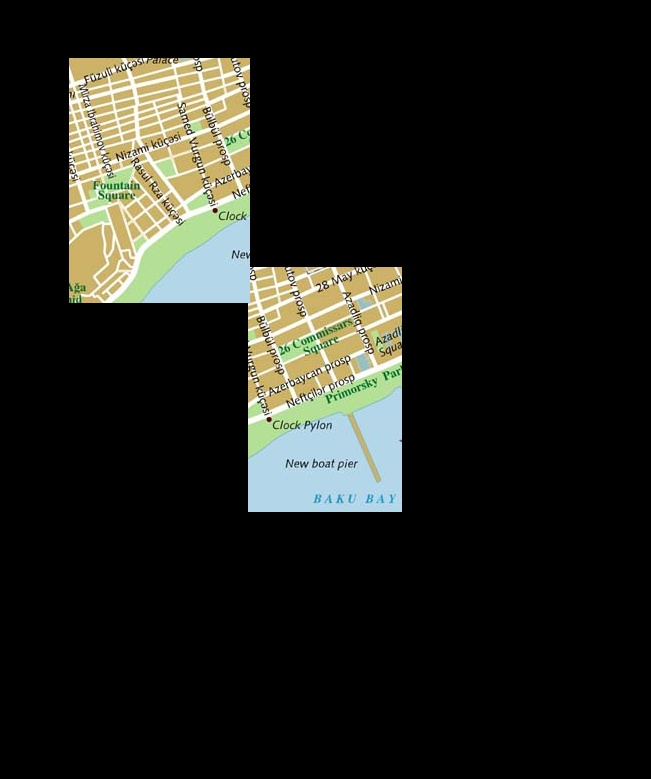
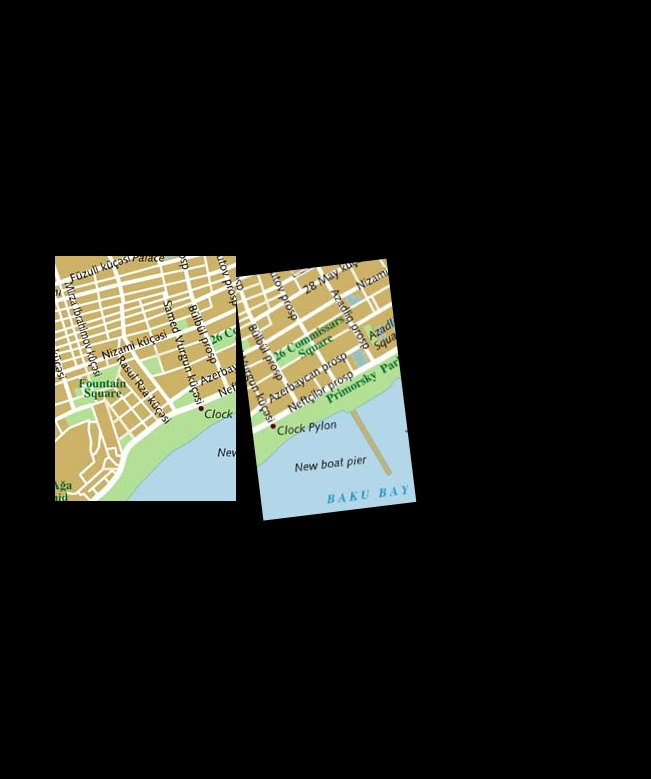
testing of the coor system is in process

Changed region(s): [[0.0614, 0.0616, 0.6452, 0.6778]]

diff --git a/CoordinateSystem.py b/CoordinateSystem.py
@@ -63,13 +63,6 @@ class CoordinateSystem:
             return -1
         return LineString(coordinatesInPolygon)
 
-    # def get_coordinates_in_polygon(self,geom):
-    #     exterior_coords = geom.exterior.coords[:]
-    #     interior_coords = []
-    #     for interior in geom.interiors:
-    #         interior_coords += interior.coords[:]
-    #     return interior_coords
-
     def make_image_format_indexing(self,coordintes):
         coordintes = np.array(coordintes.xy)
         new_format = np.repeat(coordintes,3,1)
@@ -94,27 +87,3 @@ class CoordinateSystem:
 
 
         return (coordinates_in_polygon1, coordinates_in_polygon2)
-    
-    # def getCoorOfIntersectionInInitImg2(self,coordinatesInPolygon,centreOfRectangle,angle):
-    #     listOfInitialCoor = []
-    #     for coor in coordinatesInPolygon:
-    #         new_coordinate = self.rotateTranslateCoordinates(coor,centreOfRectangle[0],centreOfRectangle[1],angle)
-    #         new_coordinate = (int(new_coordinate[0]),int(new_coordinate[1]))
-    #         listOfInitialCoor.append(new_coordinate)
-    #     return listOfInitialCoor
-
-    # def get_initial_coord1(self,coor_with_shift, SHIFTX, SHIFTY):
-    #     coor = []
-    #     for coor_tupple in coor_with_shift:
-    #         coor.append((int(coor_tupple[0])-SHIFTX,int(coor_tupple[1])-SHIFTY))
-    #     return coor
-
-    # def get_numpy_format(self,initialCoordinates):
-    #     values = [[],[],[]]
-    #     for initial_coor in initialCoordinates:
-    #         for i in range(3):
-    #             values[0].append(initial_coor[0])
-    #             values[1].append(initial_coor[1])
-    #             values[2].append(i)
-    #     values = np.array(values)
-    #     return values

diff --git a/test_coor_system.py b/test_coor_system.py
@@ -1,0 +1,5 @@
+from CoordinateSystem import CoordinateSystem
+rectangle1 = [(5,5),(5,15),(15,15),(15,5)]
+rectangle2 = [(10,10),(10,20),(20,20),(20,10)]
+coor_system = CoordinateSystem((15,15))
+coor_system.set_rectangles((rectangle1,rectangle2))
